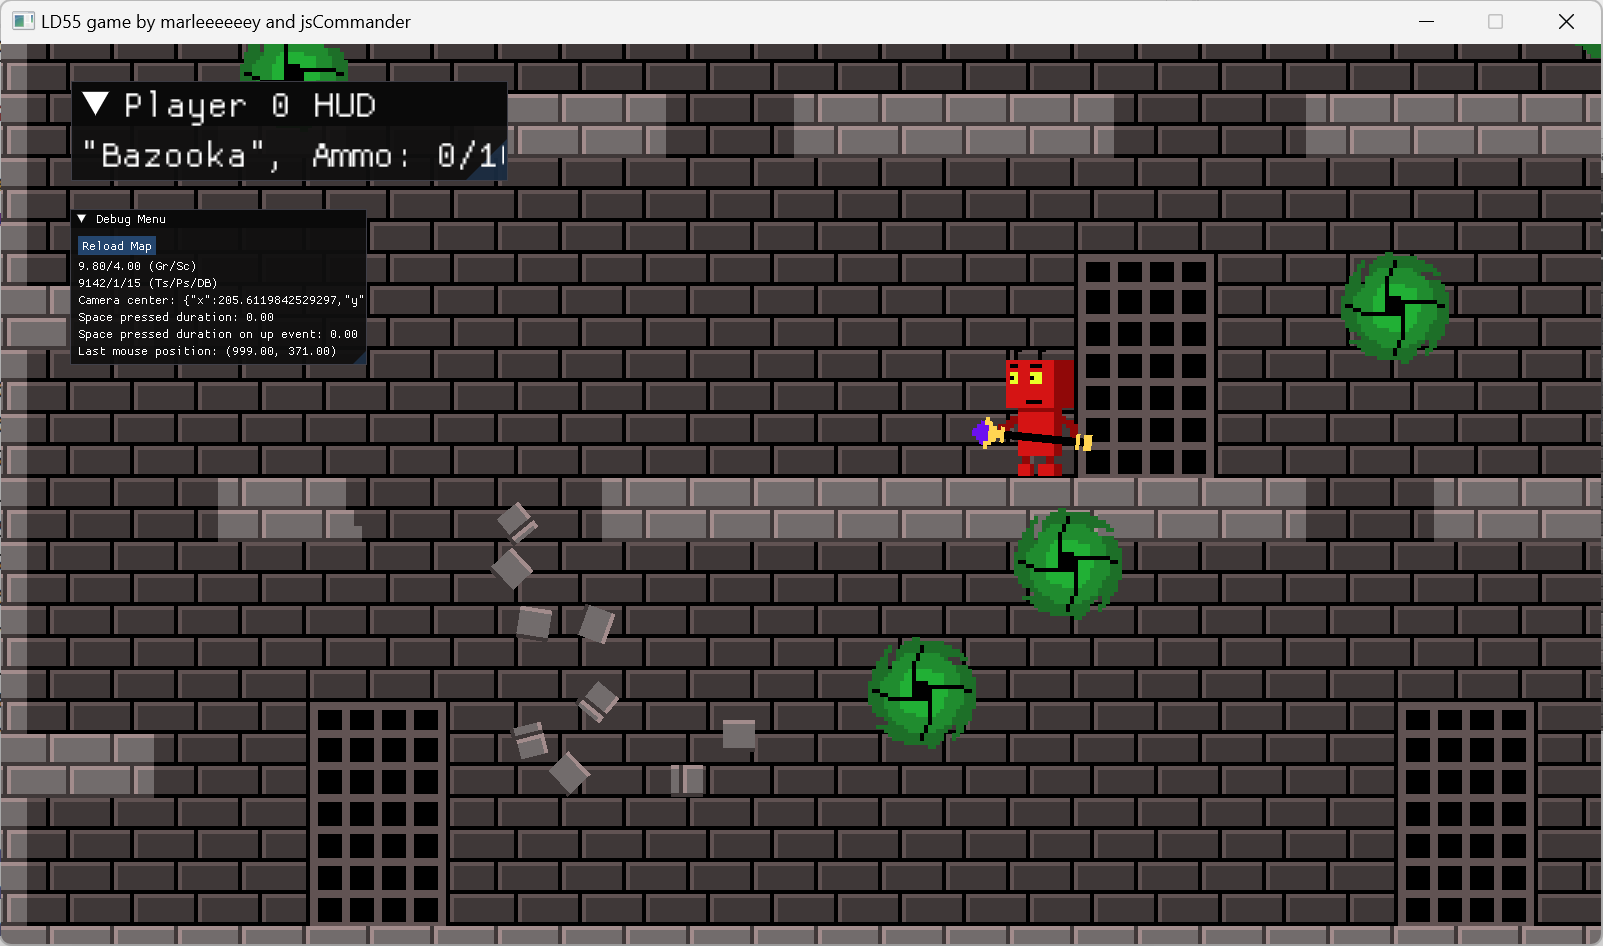
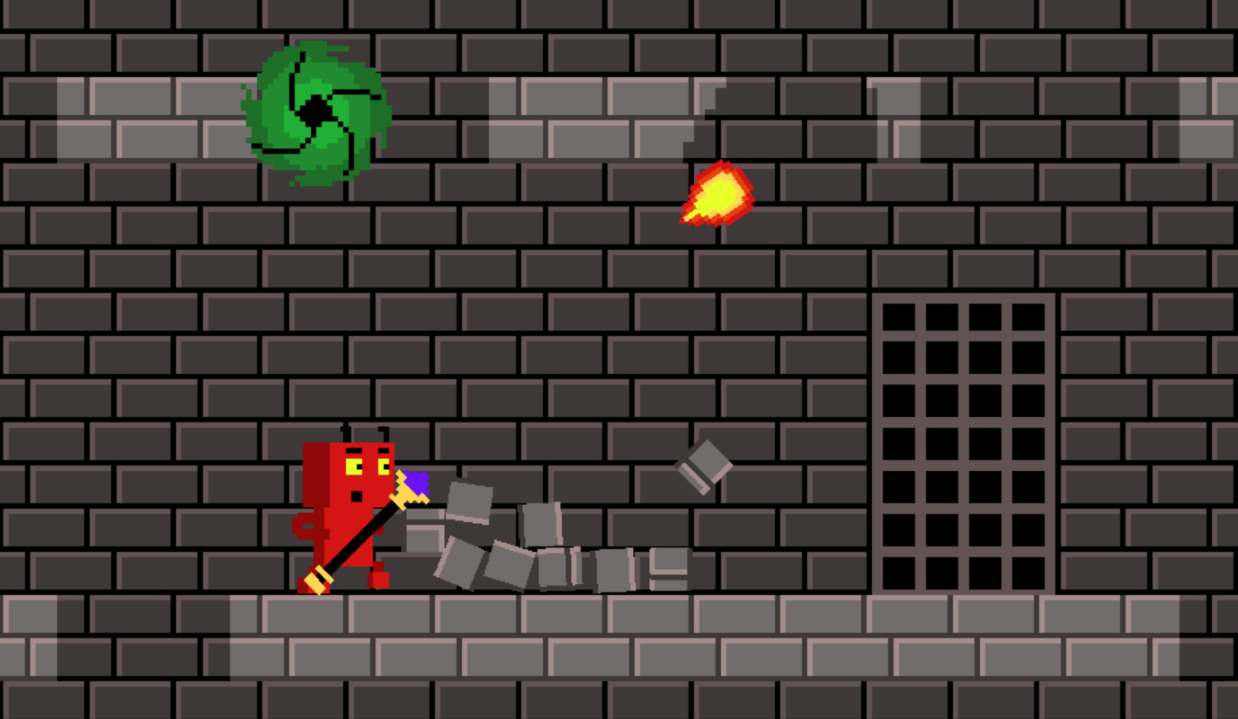
Add game description. Update screenshot. Update README.md.

diff --git a/docs/GAME_DESCRIPTION.md b/docs/GAME_DESCRIPTION.md
@@ -1,0 +1,56 @@
+### HUNGRY PORTALS
+
+**Welcome to the HUNGRY PORTALS Game**, a creation by marleeeeeey, jsCommander, and SdCorpse for Ludum Dare 55. Dive into our action-packed, fully destructible world on GitHub: [HUNGRY PORTALS on GitHub](https://github.com/marleeeeeey/LD55-game)
+
+![game screenshot](LD55_screenshot.png)
+
+---
+
+### Gameplay Overview
+
+**Hungry portals** from the dark realm are out for blood, and they've turned their attention to your home, trapping your demonic family within their shadowy depths. You start as a lone survivor with a chance to save your kin and reclaim your home.
+
+#### Objective:
+
+- **Total Destruction:** The world is fully destructible. Tear down everything to create fodder for the portals.
+- **Rescue and Reunite:** Each portal, when overfed, will burst, releasing a captured family member who will join you in defense.
+- **Victory Conditions:** Save all family members and destroy all portals.
+- **Defeat Conditions:** The game ends if you lose the last member of your family.
+
+#### Controls:
+
+- **Move:** WASD
+- **Jump:** Spacebar, be cautious of falling off edges.
+- **Shoot:** Mouse Left Button
+- **Build Platforms:** Mouse Right Button; useful for covering holes.
+- **Switch to Bazooka:** Key 1
+- **Switch to Grenade:** Key 2
+- **Scale:** Mouse Wheel
+- **Toggle Fullscreen:** F11
+- **Drag the screen:** Hold Mouse Middle Button
+- **Quit game:** ESC
+
+### Game Mechanics:
+
+- **Portal Dynamics:** Portals that collide with each other disperse chaotically. Stay alert!
+- **Building on the Fly:** Construct small platforms to navigate and trap portals.
+- **Feeding the Portals:** Without sufficient debris to consume, portals will hunt you down.
+
+### Strategy Tips:
+
+- **Adapt Your Arsenal:** Use the right tools for the right obstacles. Switch between weapons to maximize destruction.
+- **Resource Management:** Building materials are infinite. Use them to create platforms and move around the map.
+- **Stay Mobile:** Keep moving to avoid being overwhelmed by the portals' influence.
+- **Master Your Movements:** Jump frequently; demons move swiftly in the air, allowing for quick navigation and escape. However, exercise caution to avoid accidentally leaping out of the level bounds.
+
+These strategies will help you manage the challenges of the game effectively, making use of your abilities and resources to outmaneuver the dark forces and protect your territory.
+
+### Enjoyment Guaranteed:
+
+Immerse yourself in a chaotic world of destruction and strategy. Make tactical decisions, save your family, and clear your home from the malevolent clutches of the dark realms.
+
+---
+
+### Get Started:
+
+Ready to take on the challenge? Click "Start Game" to begin your journey through a world where every structure can be destroyed and every action counts. Complete all missions and lead your family to victory against the dark portals.

diff --git a/README.md b/README.md
@@ -1,6 +1,8 @@
-# LD55 (C++ Game Project)
+# Hungry Portals (LD55 Game)
 
-**LD55** - is a platformer game developed for the [Ludum Dare 55 game jam](https://ldjam.com/events/ludum-dare/55).
+**Hungry Portals** - is a platformer game developed for the [Ludum Dare 55 game jam](https://ldjam.com/events/ludum-dare/55/ld55-hungry-portals).
+
+Hungry Portals from the dark realm are out for blood, and they’ve turned their attention to your home, trapping your demonic family within their shadowy depths. You start as a lone survivor with a chance to save your kin and reclaim your home. [More details...](docs/GAME_DESCRIPTION.md)
 
 ### Team Members
 
@@ -10,7 +12,7 @@
 
 ### Screenshot
 
-![alt text](docs/LD55_screenshot.png)
+![game screenshot](docs/LD55_screenshot.png)
 
 ### Platform Support
 
@@ -19,7 +21,7 @@
 ### LD55 game depeloping Log
 
 ```
-2024-04-13 0500 Start the jam (I overslept).
+2024-04-13 0500 Start the jam (I overslept 7 hours since the start of the jam).
 2024-04-13 1200 Start thinking about the game idea.
 2024-04-13 1353 Complete repository setup.
 2024-04-13 1513 Implement dummy portal catching the player.
@@ -53,8 +55,9 @@
 2024-04-16 0324 One eating counter for all portals. Decrease portal sleep time.
 2024-10-16 0411 Create game intruction on start.
 
+*** Next items will be implemented after the jam ***
+
 TODO
-- Write target for the game at the beginning of game.
 - Implement sound effects.
 - [POSTONE] Intergrate (if created) animation of appearance and disappearance of the player.
 - [POSTONE] Magnet objects one-by-one but not all at once.
